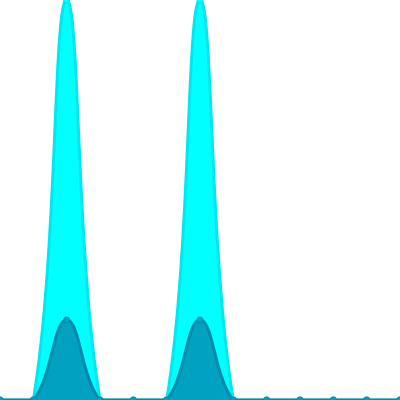
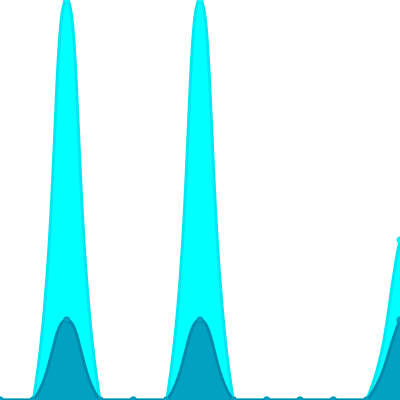
Update views

Changed region(s): [[0.9, 0.57, 1.0, 1.0]]

diff --git a/readme/409164432/year.md b/readme/409164432/year.md
@@ -23,10 +23,10 @@
 			<code>2025/2/1</code>
 		</td>
 		<td>
-			<code>0</code>
+			<code>1</code>
 		</td>
 		<td>
-			<code>0</code>
+			<code>2</code>
 		</td>
 	</tr>
 	<tr>
@@ -164,7 +164,7 @@
 </table>
 
 </details>
-<small><i>Last updated on 2025/2/11 6:23 AM UTC</i></small>
+<small><i>Last updated on 2025/2/11 12:33 PM UTC</i></small>
 
 ## ✂Copy and 📋 Paste
 ### SVG Badge

diff --git a/README.md b/README.md
@@ -69,7 +69,7 @@ The project created and maintained by [gayanvoice](https://github.com/gayanvoice
 	</tr>
 </table>
 
-<small><i>Last updated on 2025/2/11 6:23 AM UTC</i></small>
+<small><i>Last updated on 2025/2/11 12:33 PM UTC</i></small>
 
 ## ✂Copy and 📋 Paste
 ### Total Views Badge

diff --git a/readme/314094375/year.md b/readme/314094375/year.md
@@ -164,7 +164,7 @@
 </table>
 
 </details>
-<small><i>Last updated on 2025/2/11 6:22 AM UTC</i></small>
+<small><i>Last updated on 2025/2/11 12:32 PM UTC</i></small>
 
 ## ✂Copy and 📋 Paste
 ### SVG Badge

diff --git a/readme/409135995/year.md b/readme/409135995/year.md
@@ -164,7 +164,7 @@
 </table>
 
 </details>
-<small><i>Last updated on 2025/2/11 6:23 AM UTC</i></small>
+<small><i>Last updated on 2025/2/11 12:33 PM UTC</i></small>
 
 ## ✂Copy and 📋 Paste
 ### SVG Badge
